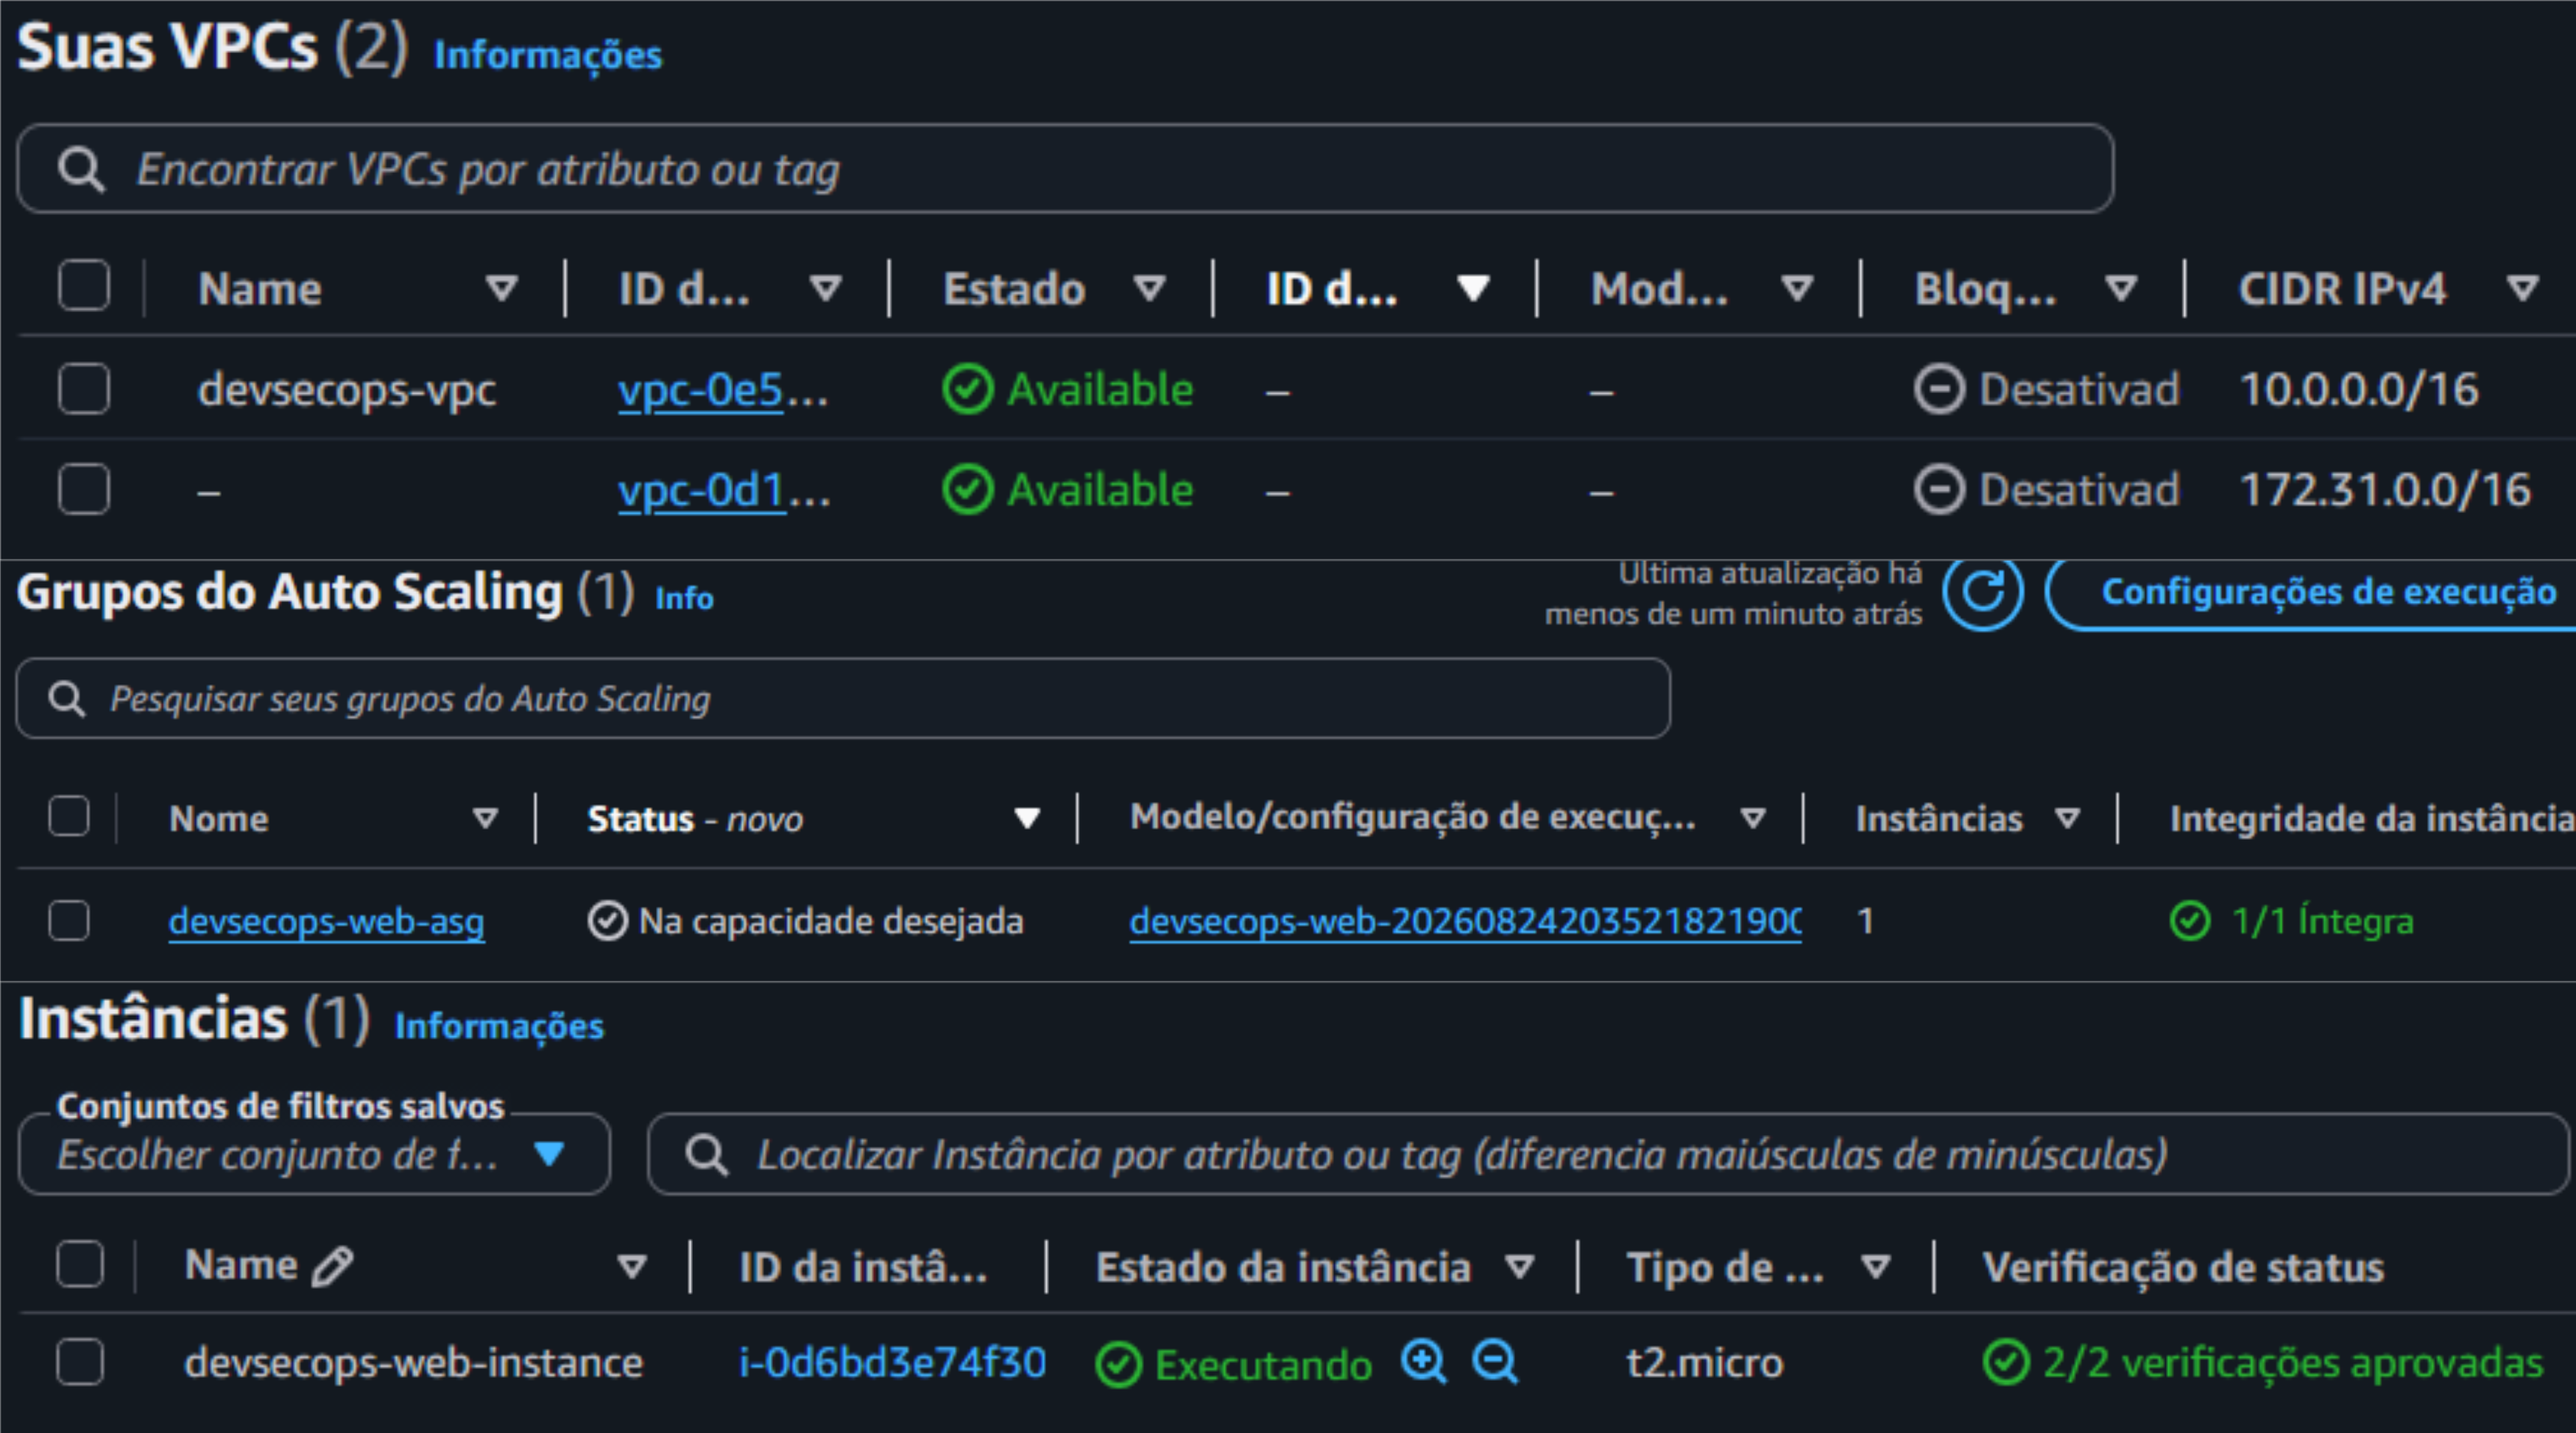
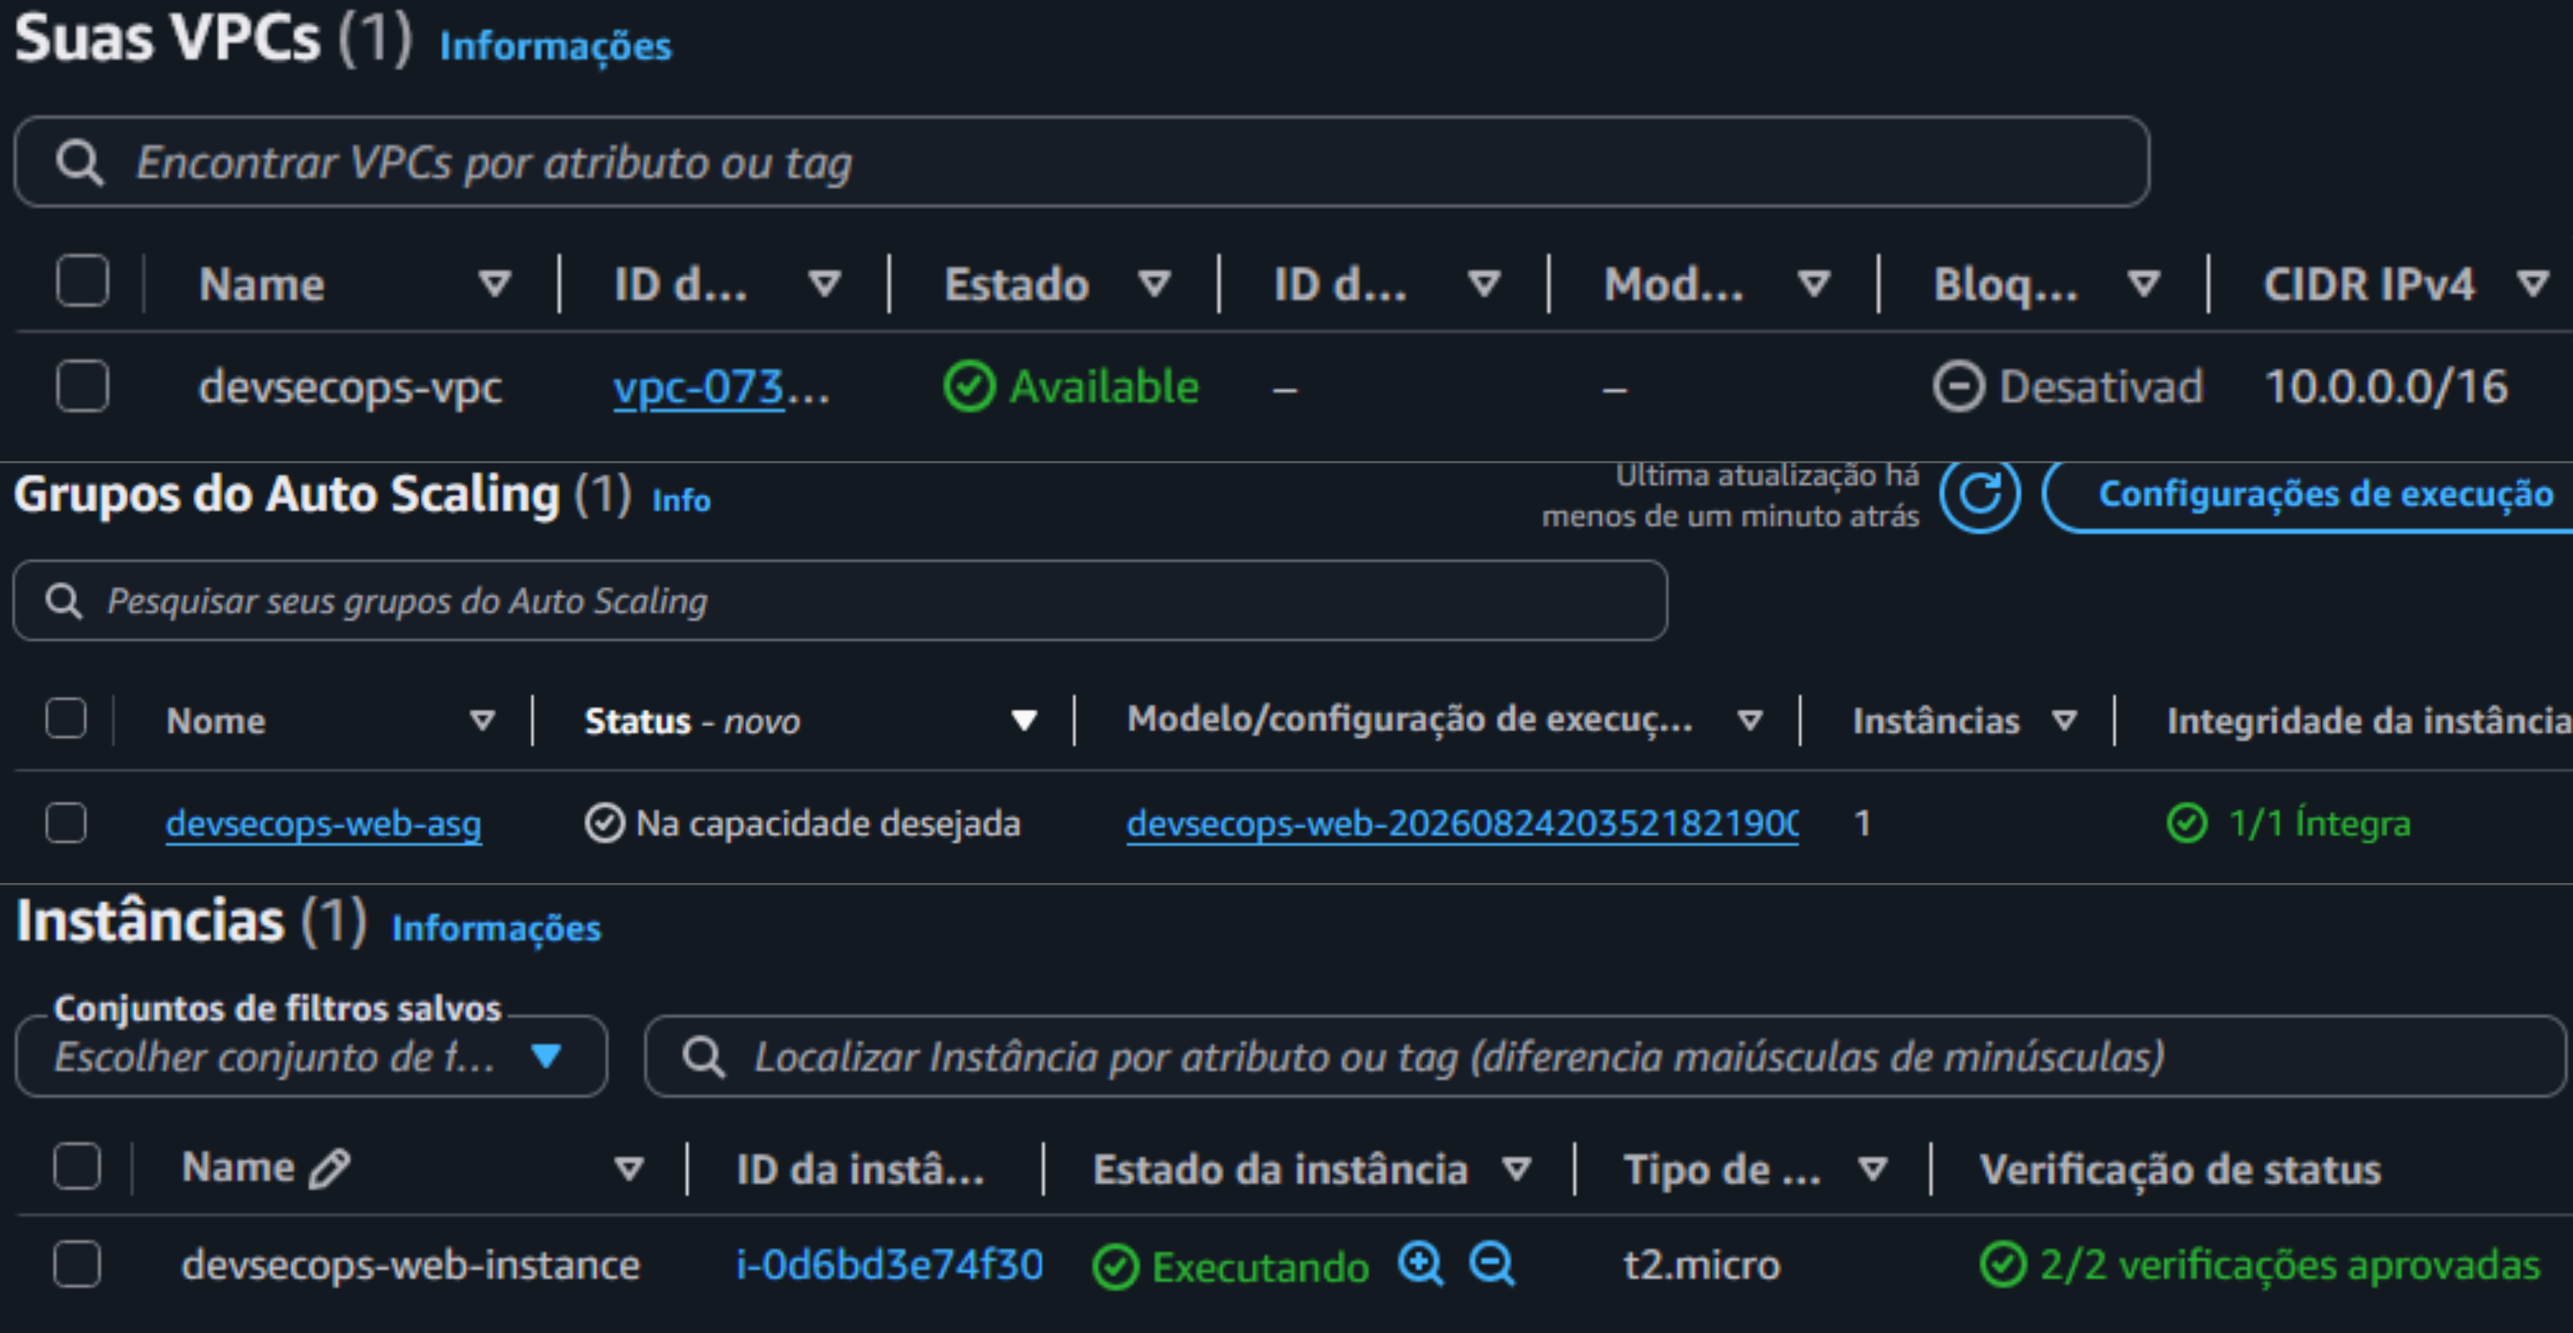
docs: update descriptions, checkov and terraform apply evidence

Changed region(s): [[0.0, 0.0928, 1.0, 0.8349], [0.0, 0.8658, 1.0, 0.9586], [0.0, 0.0, 0.2807, 0.0618]]

diff --git a/README.md b/README.md
@@ -25,10 +25,10 @@ O fluxo de CI/CD foi estruturado no GitHub Actions com autenticação federada v
 ## Evidências de Execução
 
 ### 1. Bloqueio Preventivo com Checkov (Shift-Left)
-Validação de segurança bloqueando um PR após detectar uma regra de Security Group exposta indevidamente:
+Validação de segurança bloqueando um PR após detectar porta SSH exposta no Security Group e ausência de IMDSv2 no Launch Template:
 
 <p align="center">
-  <img src="./docs/checkov-block.png" alt="Bloqueio Preventivo - Checkov" width="900">
+  <img src="./docs/checkov-block.png" alt="Bloqueio Preventivo - Checkov" width="800">
 </p>
 
 ### 2. Execução da Pipeline de Deploy
